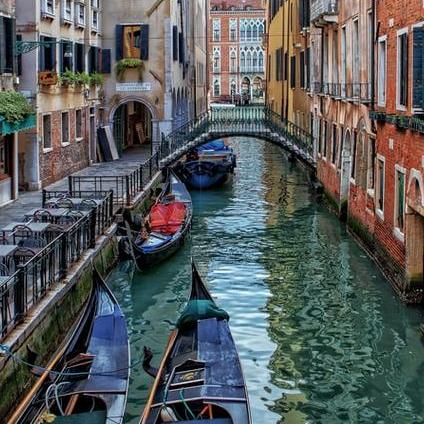
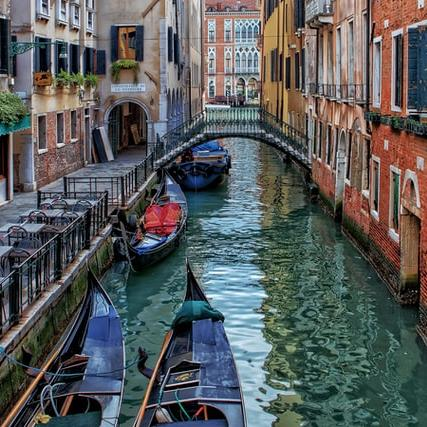
refactor: оптимизировать css карточки element

diff --git a/index.html b/index.html
@@ -5,7 +5,7 @@
   <meta name="viewport" content="width=device-width, initial-scale=1.0">
   <meta http-equiv="X-UA-Compatible" content="ie=edge">
   <link rel="stylesheet" href="./pages/index.css">
-  <title>Mesto</title>
+  <title>Место</title>
 </head>
 <body>
   <div class="page">
@@ -31,32 +31,32 @@
         <div class="element">
           <img class="element__img" src="./images/photo-msc.jpg" alt="Москва"/>
           <h2 class="element__title">Москва</h2>
-          <div class="element__like-button"></div>
+          <button class="element__like-button"></button>
         </div>
         <div class="element">
           <img class="element__img" src="./images/photo-spb.jpg" alt="Санкт-Петербург"/>
           <h2 class="element__title">Санкт-Петербург</h2>
-          <div class="element__like-button"></div>
+          <button class="element__like-button"></button>
         </div>
         <div class="element">
           <img class="element__img" src="./images/photo-amsterdam.jpg" alt="Амстердам"/>
           <h2 class="element__title">Амстердам</h2>
-          <div class="element__like-button"></div>
+          <button class="element__like-button"></button>
         </div>
         <div class="element">
           <img class="element__img" src="./images/photo-shanghai.jpg" alt="Шанхай"/>
           <h2 class="element__title">Шанхай</h2>
-          <div class="element__like-button"></div>
+          <button class="element__like-button"></button>
         </div>
         <div class="element">
           <img class="element__img" src="./images/photo-tbilisi.jpg" alt="Тбилиси"/>
           <h2 class="element__title">Тбилиси</h2>
-          <div class="element__like-button"></div>
+          <button class="element__like-button"></button>
         </div>
         <div class="element">
           <img class="element__img" src="./images/photo-venice.jpg" alt="Венеция"/>
           <h2 class="element__title">Венеция</h2>
-          <div class="element__like-button"></div>
+          <button class="element__like-button"></button>
         </div>
       </section>
 

diff --git a/blocks/element/__like-button/element__like-button.css b/blocks/element/__like-button/element__like-button.css
@@ -1,9 +1,12 @@
 .element__like-button {
+  grid-area: like;
+  justify-self: center;
   width: 22px;
   height: 19px;
+  border: none;
+  background-color: transparent;
   background-repeat: no-repeat;
   background-size: cover;
-  justify-self: center;
   background-image: url("../../../images/like-disabled-icon.svg");
   opacity: 1;
   transition: opacity .25s linear;

diff --git a/blocks/element/__img/element__img.css b/blocks/element/__img/element__img.css
@@ -1,5 +1,6 @@
 .element__img {
   grid-area: img;
-  width: 100%;
+  width: 282px;
+  height: 282px;
   object-fit: cover;
 }
